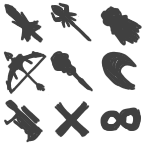
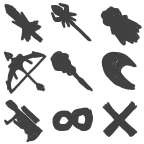
Fix autobattle weapon order (#504)
* Add files via upload

* Add files via upload

Pull request: Fix autobattle weapon order

Changed region(s): [[0.6944, 0.6944, 1.0, 0.9722], [0.3611, 0.6944, 0.6667, 0.9722]]

diff --git a/autobattle/autobattle.js b/autobattle/autobattle.js
@@ -68,12 +68,12 @@ const WEAPONS = [
     position: "0 100%",
   },
   {
-    name: "無",
+    name: "全域",
     offsets: [],
     position: "50% 100%",
   },
   {
-    name: "全域",
+    name: "無",
     offsets: [],
     position: "100% 100%",
   },
@@ -404,7 +404,7 @@ class Board{
         const cell = this.getCell(initialPositions.shift());
         this.playerUnits.push(cell);
         cell.setUnit(name);
-        cell.setWeapon(WEAPONS.at(-2));
+        cell.setWeapon(WEAPONS.at(-1));
       }
     }
   }

diff --git a/autobattle/autobattle.css b/autobattle/autobattle.css
@@ -17,7 +17,7 @@
   --animation-slide-out: var(--slide-out) 0.2s ease both;
   --animation-slide-in: var(--slide-in) 0.2s ease both;
   --sprite-url: url("/img/weapon_a.png");
-  --sprite-position: 50% 100%;
+  --sprite-position: 100% 100%;
 }
 :root[data-theme="0"].dark,
 :root[data-theme="2"] {